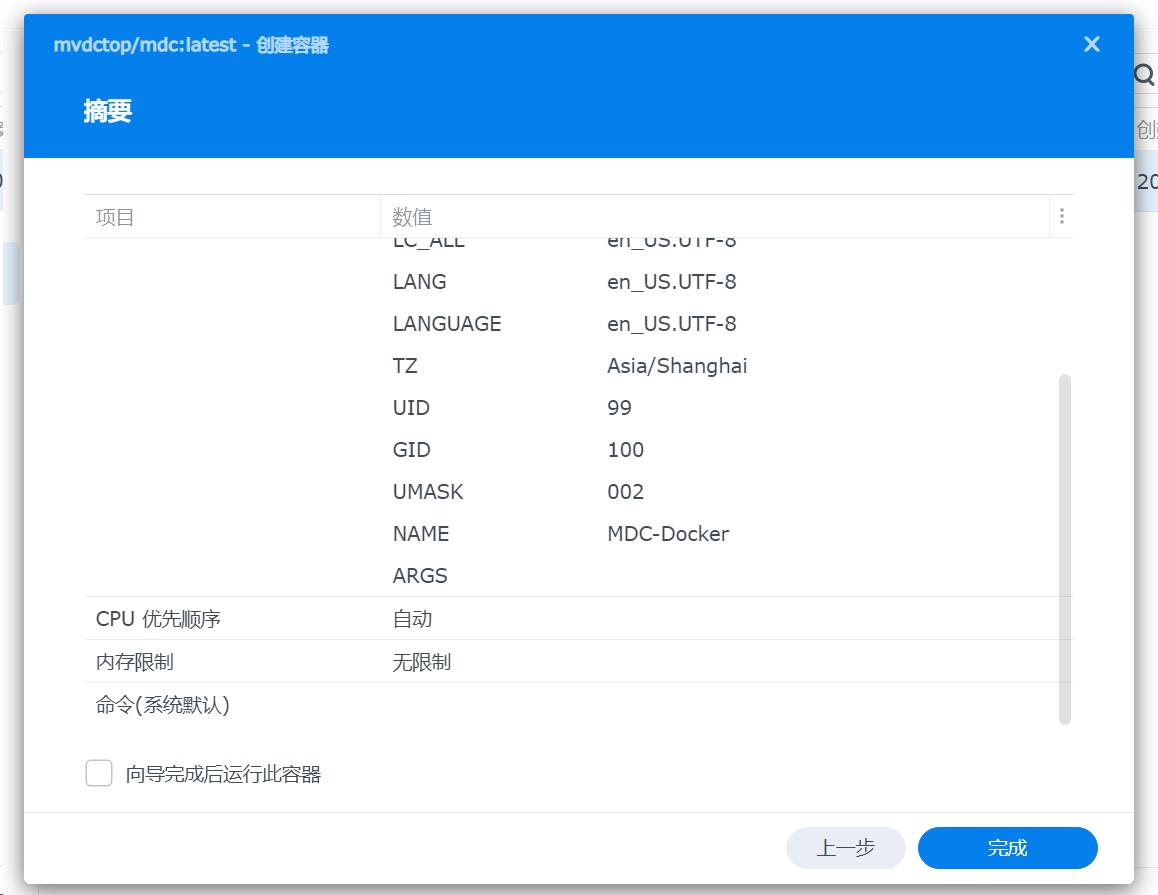
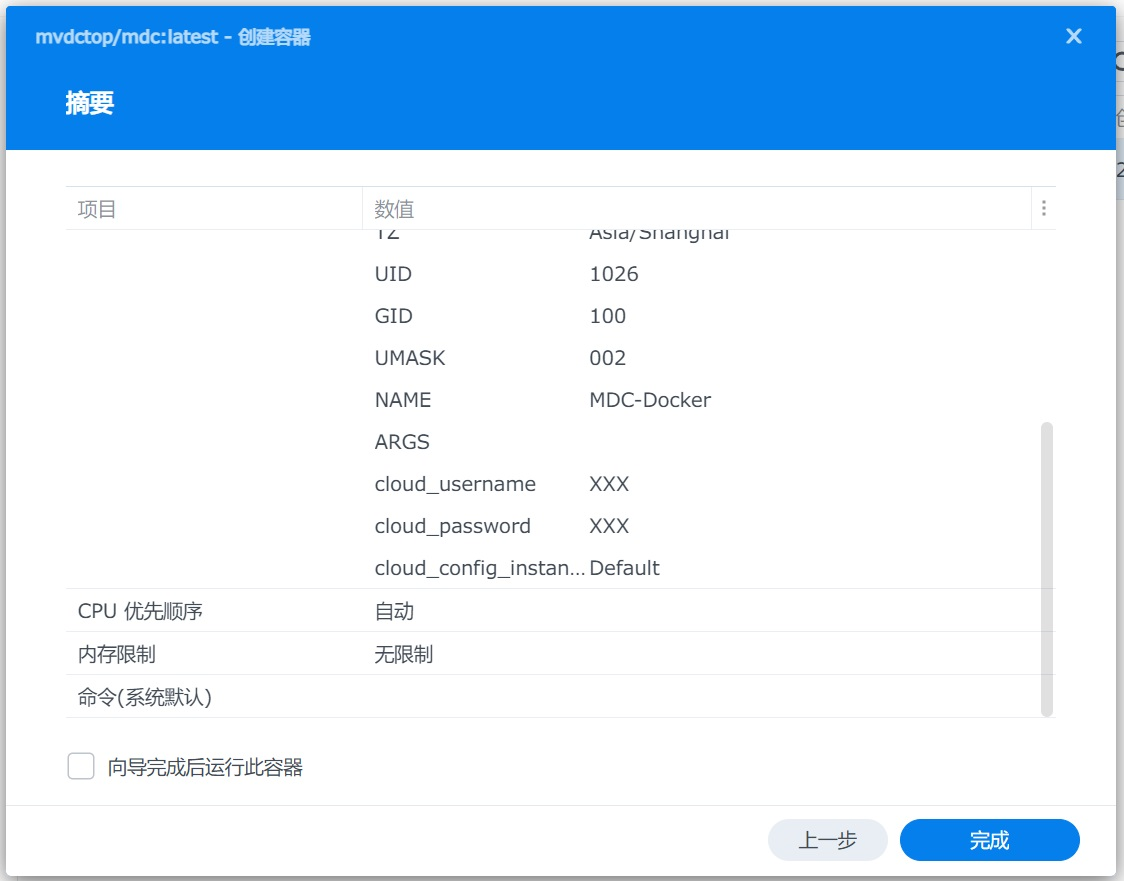
Docker update

diff --git a/docs/chs/clients.md b/docs/chs/clients.md
@@ -53,7 +53,7 @@
 | /config/.mdc | 配置文件目录   |
 
 * 如果刮削或整理**一般**影片，则只需设置`/source` `/output` 卷
-* 如果刮削或整理**其他**影片，则在`ARGS`添加[运行参数](/chs/cli.html#运行参数)`-o`，和只需设置`/source-o` `/output-o` 卷
+* 如果刮削或整理**其他**影片，则在环境变量`ARGS`添加[运行参数](/chs/cli.html#运行参数)`-o`，和只需设置`/source-o` `/output-o` 卷
 * 如果需要整理外挂字幕文件，则在配置文件`config/mdc.ini`中修改`[subs]switch=1`后，设置`/subs`或`/subs-o`卷
 
 #### 以下教程二选一
@@ -64,12 +64,13 @@
 
 ### 简要流程
 * 打开`Container Manager`下载`mvdctop/mdc`映像
-* 创建容器，只需给环境变量`ARGS`设置一个空格即可，不勾选完成后运行此容器
-* 在容器页面中，右键详情，设置卷和环境变量
-* 编辑卷
-* 连接SSH，输入`id`命令获取当前用户 `UID` `GID`，填入环境变量
-* 编辑环境变量：根据阁下的[注册](https://docs.mvdc.top/chs/#_1-%E5%9C%A8%E7%BD%91%E9%A1%B5%E7%AB%AF%E7%9A%84%E7%94%A8%E6%88%B7%E9%9D%A2%E6%9D%BF%E6%B3%A8%E5%86%8C%E8%B4%A6%E5%8F%B7)的用户名和密码，且已经激活，填写`cloud_username`和`cloud_password`，可根据需要填写`ARGS`[运行参数](/chs/cli.html#运行参数)
-* 保存后运行，第一次运行会在`config`目录下生成`mdc.ini`文件，可证据需要配置，如配置代理
+* 创建容器，设置环境变量，根据阁下的[注册](https://docs.mvdc.top/chs/#_1-%E5%9C%A8%E7%BD%91%E9%A1%B5%E7%AB%AF%E7%9A%84%E7%94%A8%E6%88%B7%E9%9D%A2%E6%9D%BF%E6%B3%A8%E5%86%8C%E8%B4%A6%E5%8F%B7)的用户名和密码，且已经激活，填写`cloud_username`和`cloud_password`，可根据需要填写`ARGS`[运行参数](/chs/cli.html#运行参数)；如果`ARGS`留空只需输入一个空格；如自定义其他云配置实例，则`cloud_config_instance`填写自定义云配置实例名称
+* 连接系统SSH，连接方法自行搜索，连接后输入`id`命令获取当前用户 `UID` `GID`，填入环境变量`UID` `GID`
+* **不勾选**完成后运行此容器
+* 在容器页面中，右键详情，编辑卷，根据自身需求与[上文](#卷)，不需要全部目录都设置
+* 左侧为宿主机目录（自行设置），右侧为容器中的目录（不可变）
+* 保存后运行
+* 第一次运行，会在`config`目录下生成`mdc.ini`文件，阅读[这里](https://docs.mvdc.top/chs/cli.html#%E9%85%8D%E7%BD%AE%E6%96%87%E4%BB%B6)根据自身需求配置，如配置代理
 * 第二次运行后，查看日志后如果正常，则可在运行结束后移除环境变量`cloud_username`和`cloud_password`
 
 ### 图文流程
@@ -78,17 +79,18 @@
 ![](/images/docker/2.jpg)
 ![](/images/docker/3.jpg)
 ![](/images/docker/4.jpg)
-* 创建容器，只需给环境变量`ARGS`设置一个空格即可，不勾选完成后运行此容器
+* 创建容器，设置环境变量，根据阁下的[注册](https://docs.mvdc.top/chs/#_1-%E5%9C%A8%E7%BD%91%E9%A1%B5%E7%AB%AF%E7%9A%84%E7%94%A8%E6%88%B7%E9%9D%A2%E6%9D%BF%E6%B3%A8%E5%86%8C%E8%B4%A6%E5%8F%B7)的用户名和密码，且已经激活，填写`cloud_username`和`cloud_password`，可根据需要填写`ARGS`[运行参数](/chs/cli.html#运行参数)；如果`ARGS`留空只需输入一个空格；如自定义其他云配置实例，则`cloud_config_instance`填写自定义云配置实例名称
+* 连接系统SSH，连接方法自行搜索，连接后输入`id`命令获取当前用户 `UID` `GID`，填入环境变量`UID` `GID`
+![](/images/docker/id.jpg)
 ![](/images/docker/5.jpg)
+* **不勾选**完成后运行此容器
 ![](/images/docker/6.jpg)
-* 在容器页面中，右键详情，设置卷和环境变量
+* 在容器页面中，右键详情，编辑卷，根据自身需求与[上文](#卷)，不需要全部目录都设置
+* 左侧为宿主机目录（自行设置），右侧为容器中的目录（不可变）
 ![](/images/docker/7.jpg)
 ![](/images/docker/8.jpg)
-* 连接SSH，输入`id`命令获取当前用户 `UID` `GID`，填入环境变量
-![](/images/docker/id.jpg)
-* 编辑环境变量：根据阁下的[注册](https://docs.mvdc.top/chs/#_1-%E5%9C%A8%E7%BD%91%E9%A1%B5%E7%AB%AF%E7%9A%84%E7%94%A8%E6%88%B7%E9%9D%A2%E6%9D%BF%E6%B3%A8%E5%86%8C%E8%B4%A6%E5%8F%B7)的用户名和密码，且已经激活，填写`cloud_username`和`cloud_password`，可根据需要填写`ARGS`[运行参数](/chs/cli.html#运行参数)
-![](/images/docker/9.jpg)
-* 保存后运行，第一次运行会在`config`目录下生成`mdc.ini`文件，可证据需要配置，如配置代理
+* 保存后运行
+* 第一次运行，会在`config`目录下生成`mdc.ini`文件，阅读[这里](https://docs.mvdc.top/chs/cli.html#%E9%85%8D%E7%BD%AE%E6%96%87%E4%BB%B6)根据自身需求配置，如配置代理
 ![](/images/docker/10.jpg)
 * 第二次运行后，查看日志后如果正常，则可在运行结束后移除环境变量`cloud_username`和`cloud_password`
 ![](/images/docker/11.jpg)
